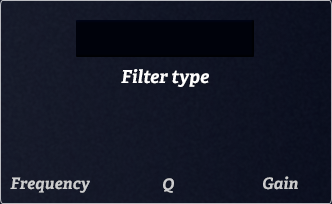
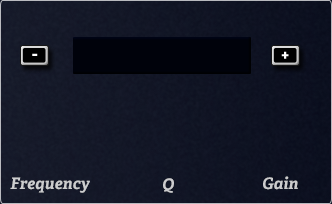
Added the decks for filter and overdrive

Changed region(s): [[0.2108, 0.0882, 0.7831, 0.4412], [0.0602, 0.2059, 0.1506, 0.3529], [0.8133, 0.2059, 0.9036, 0.3235]]

diff --git a/tuna-overdrive.js b/tuna-overdrive.js
@@ -196,7 +196,7 @@ define(['require', 'github:janesconference/KievII@0.6.0/kievII',
         }.bind(this);
         
         require (['./assets/images/knob_64_64_64.png!image',
-                  './assets/images/TFDeck.png!image',
+                  './assets/images/TODeck.png!image',
                   './assets/images/button_plus.png!image',
                   './assets/images/button_minus.png!image'],
             function () {
